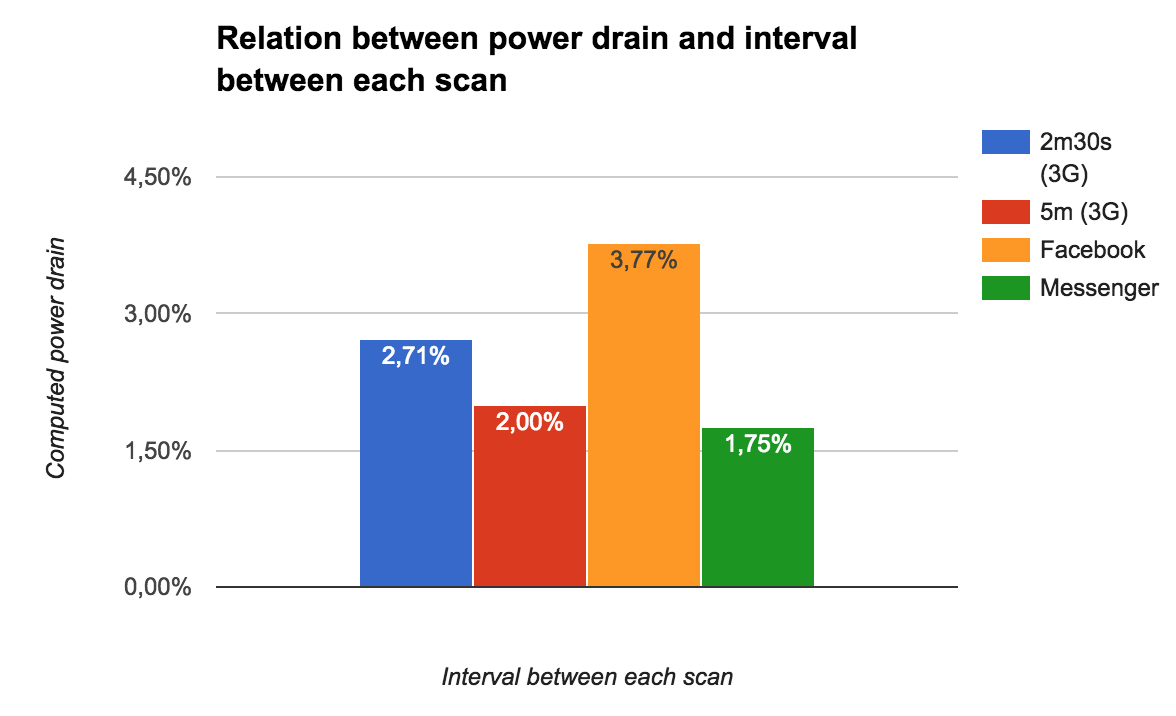
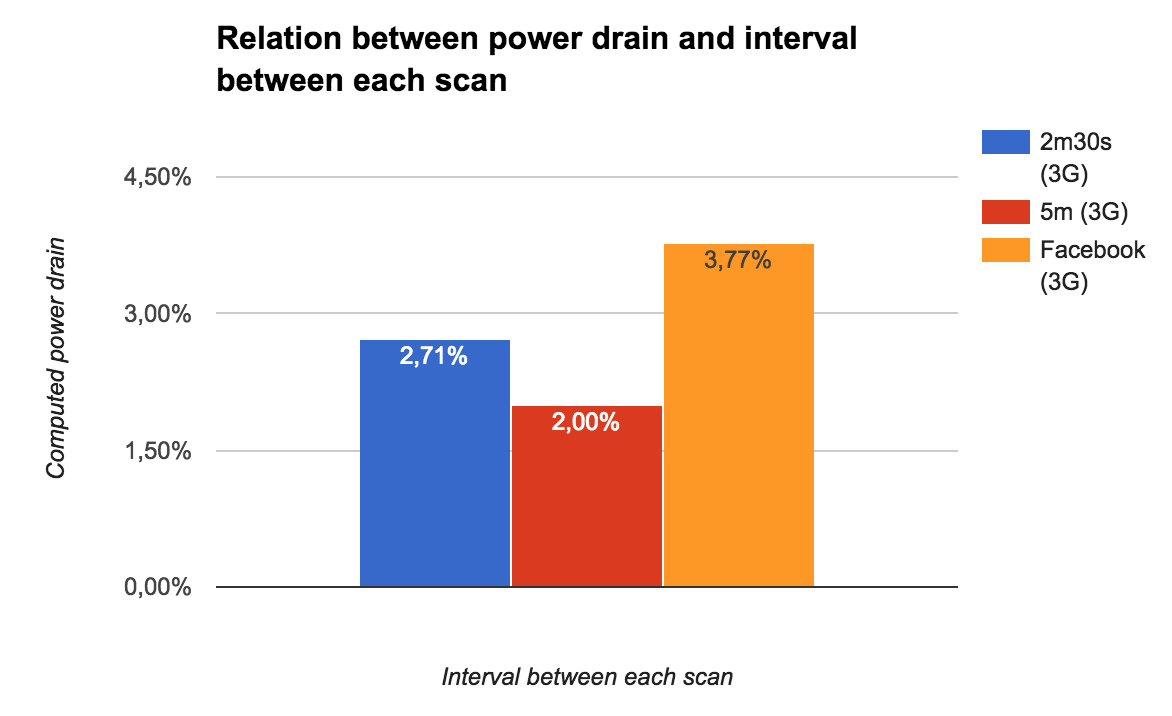
Improved Evaluation. Closes #177

diff --git a/dissertation/chapters/evaluation.tex b/dissertation/chapters/evaluation.tex
@@ -5,17 +5,9 @@
 % Introduce evaluation...
 % Main goals
 % Setup used
-
-After the implementation of this solution some experiments were performed in order to test it.
-When the mobile app for end users scans for beacons, it tries to find the nearest one that belongs to one or more Smart Places and notifify the user if at least one was found.
-If the user touches one of those notifications, the interface to the selected Smart Place is shown and the user can start to interact with it.
-Then, the app will keep on scanning for the nearest beacon and request the data, associated to that beacon in the context of the given Smart Place.
-This means that somehow, it has into account the physical distance between the device and the beacons.
-The library used to handle the beacons has a method to get the distance from a given beacon.
-There is a need to check if the distance's value we get from this library is reliable.
-The same app needs to run in background in order to let the user be notified when he/she is nearby any Smart Place, instead of requiring his/her interaction.
-However, as any service running in background, it can have a negative impact on the mobile device's resources usage such as battery.
-A set of experiments was performed to evaluate the overhead introduced by our solution and if it is acceptable, having an app, running in background, scanning for beacons.
+The evaluation focused on two aspects.
+First, we need to verify if the method to get the distance from a given beacon is reliable.
+Second, since we have a service running in background scanning for beacons from time to time we evaluated our solution in terms of battery consumption.
 
 In section \ref{sec:evaluation_setup}, we describe the setup used, such as the mobile device and the set of beacons.
 Then, we present two sets of experiments.
@@ -53,6 +45,7 @@ The set of experiments, summarized in Table~\ref{tab:experiments_nearest_beacon}
 In these experiments, the Smart Musem example was used.
 In each experiment it ran for 5 minutes using 10 seconds as the interval between each scan.
 10 seconds was chosen because it is a reasonable value to walk in the museum to have enough time to perform any computation that was needed after each scan.
+
 In each scan, the app executes code that checks if the scanned beacons were already detected in a previous scan. If they were not, the data associated to those beacons is requested from the backend which, depending on the internet connection, can take some time.
 This time interval between each scan seemed reasonable to make the request and compute the result until a new scan occurs.
 With a much lower value, we could have a situation where another scan occurs while the previous one was not computed yet.
@@ -98,8 +91,12 @@ For instance, in the previously described Smart Restaurant example
 the tables should not be close to each other. This is not always possible because some restaurants try to optimize space and have tables as much close to each other as possible.
 In the Smart Museum example two objects in a given exhibition should not be close to each other.
 Otherwise, the visitor would be notified about an object and he might be looking at another one.
-This error can be avoided using solutions such as Estimote Indoor \gls{SDK}\footnote{http://github.com/Estimote/iOS-Indoor-SDK} that can be used to obtain the physical indoors positon of the user.
-However, it is only available for iOS.
+This error can be avoided using solutions such as Estimote Indoor \gls{SDK}\footnote{http://github.com/Estimote/iOS-Indoor-SDK} that can be used to obtain the physical location of the user inside a building or a room.
+% How it works
+However, using it requires the user to place beacons around the room.
+Then, he needs to walk through the room in order for the app that is using the \gls{SDK} to get the needed data to do the mapping.
+Only after this mapping it is possible to get the user's location.
+It is only available for iOS.
 
 \section{Energy Consumption}
 \label{sec:evaluation_energy_consumption}
@@ -152,16 +149,17 @@ Data communications, \gls{WiFi} or \gls{3G}, are the major source of battery dra
 To test both scenarios we would need more than three beacons spread along a big space.
 Instead, we simulated the user walking passing by multiple Smart Places just by cleaning the cache, at each scan process.
 This forced the app to make requests to the backend each time the three beacons were detected, allowing us to understand the impact of these requests on the power drain.
-We used Battery Historian\footnote{https://developer.android.com/tools/performance/batterystats-battery-historian/index.html} to measure the power drain and how much data was transferred (sent and received). This tool allows developers to get the percentage of power drain of any application.
+We used Battery Historian\footnote{https://developer.android.com/tools/performance/batterystats-battery-historian/index.html} to measure the power drain and how much data was transferred (sent and received). This tool allowed us to get the percentage of power drain.
 
 \subsection{Results}
 \label{sub:evaluation_energy_consumption_results}
-As any service running in background it can imply some overhead in terms of energy.
-Following the methodology, explained before, we evaluated the battery consumption.
-For the first scenario, when the user stays in the same Smart Place, during each experiment, the results are summarized in Table~\ref{tab:results_battery_stopped} where we can see, for each variation of data connection type (\gls{WiFi} and \gls{3G}) and interval between each scan, the values obtained for power drain and data transferred.
-From this table it was possible to create the graphic shown in Figure~\ref{fig:results_battery_stopped}.
-The battery consumption using \gls{WiFi} is almost zero.
-However, when using \gls{3G}, the battery consumption raises more than 30 times than using \gls{WiFi}.
+% Tested first scenario
+After we tested the first scenario, when the user stays in the same Smart Place we got the results shown in Table~\ref{tab:results_battery_stopped}, where we can see, for each variation of data connection type (\gls{WiFi} and \gls{3G}) and interval between each scan, the values obtained for power drain and data transferred.
+From these results we obtained the graphic in Figure~\ref{fig:results_battery_stopped}.
+% Concluded that the power drain is greater when using 3G
+It is possible to see that using \gls{WiFi} we got no power drain.
+However, using \gls{3G} it drained 0.29\% and 0,40\% of the total battery available.
+After these first results we concluded that the biggest overhead comes from using \gls{3G} connection.
 
 \includeTable{results_battery_stopped}
 
@@ -172,33 +170,29 @@ However, when using \gls{3G}, the battery consumption raises more than 30 times 
     \label{fig:results_battery_stopped}
 \end{figure}
 
-From this results, it is possible to conclude that, our solution introduces the most overhead when using \gls{3G} as the mean to perform data communications such as, requests to the backend.
-For each data connection type (\gls{WiFi} and \gls{3G}), we tested two values for the interval between each scan for nearby beacons.
-We can observe that, when we decrease the interval between each scan in half, the battery consumption increases in 0.1\%.
-Taking into account that we spent one hour in each experiment and assuming that the values for the power drain grow lineary, it is possible to say that, for two and half and five minutes in interval between each scan, we would have 6.96\% and 9.6\%, in 24 hours, of power drain, respectively.
-The values are still low but they can demotivate the usage of our solution because, it is very likely that the users already have mobile apps, that use mobile data, already installed in their devices.
-
-Since the power drain is higher when using \gls{3G}, we tested two of the most popular apps using this data connection type, Facebook\footnote{http://play.google.com/store/apps/details?id=com.facebook.katana} and Facebook Messenger\footnote{http://play.google.com/store/apps/details?id=com.facebook.orca} that also have services running in background and need to perform requests using an Internet connection.
-Table~\ref{tab:results_facebook} summarizes these tests.
-Each test ran in 1 hour.
+% Tested Facebook using 3G
+After the first set of experiments we tested Facebook\footnote{http://play.google.com/store/apps/details?id=com.facebook.katana} since it is one of the popular apps and also has services running in background.
+It is also known to be one of most power draining apps\footnote{http://www.forbes.com/sites/jaymcgregor/2014/11/06/facebook-and-instagram-are-killing-your-phones-battery-heres-a-simple-fix}.
+We let it ran for 1 hour as we did in our first experiments.
 While running Facebook, we used it to check our news feed in 5 minutes. The rest of the time the app was running in background.
-With Facebook Messenger, we received three messages during the experiment.
-It is possible to say that most of the power drain was due to background activities.
+Table~\ref{tab:results_facebook} summarizes the conditions and results of the test performed using Facebook app.
 We will use these values as a reference to compare with the power drain in the second scenario, that is, at each scan the user moves from one place to another which implies more requests to the backend.
 
 \includeTable{results_facebook}
 
-Regarding the second scenario, where the user moves from one Smart Place to another, at each two and half minutes.
+% Tested second scenario
+Then, we performed the second set of experiments, that is, the second scenario where the user moves from one Smart Place to another.
+Here, the app requests more data from the backend.
 Table~\ref{tab:results_battery_walking}, shows the results for this scenario. Here, we got more power drain than in the previous scenario.
 These results shows that, the more communication with the backend is required, more power our solution drains.
 Once more, using \gls{WiFi}, we have got almost zero power drain.
 However, similar to the results in the previous scenario, there is more power drain using \gls{3G}.
 Graphic shown in Figure~\ref{fig:results_battery_walking} shows that, using two minutes and half of interval between each scan, we got more 0.71\% than using five minutes.
 As happened before, there is more power drain when we increase the interval between each scan.
-% Relate with Facebook and Messenger apps
-In the worst case we obtained a power drain of 2.71\% which is approximately 71\% less than using Facebook in the same period of time and more than 65\% of using Facebook Messenger.
-Using these two apps as a reference in terms of apps that run services in background, we can say that the battery consumption is acceptable for a daily basis usage.
-However, this is an aspect that needs to be improved.
+
+% Compare with Facebook
+In the worst case we obtained a power drain of 2.71\% which is approximately 71\% less than using Facebook in the same period of time.
+Using this app as a reference in terms of apps that run services in background, we can say that the battery consumption is acceptable for a daily basis usage.
 
 \includeTable{results_battery_walking}
 
@@ -208,6 +202,9 @@ However, this is an aspect that needs to be improved.
     \caption[Power drain when the user is moving]{Relation between power drain and interval between each scan in the scenario where the user moves along multiple Smart Places}
     \label{fig:results_battery_walking}
 \end{figure}
+
+% Dirty Hack to only start next section after showing the figures
+\vfill
 
 \section{Summary}
 \label{sec:evaluation_summary}
@@ -220,10 +217,7 @@ We have used a \tm{Motorola} Moto G smartphone and three beacons from \tm{Estimo
 % Nearest beacon
 % -> What and why
 % -> Comment results
-The mobile app for end users scans for nearby beacons and requests information, to the backend, about the one that is less distant to the mobile device.
-Somehow, the app needs to be able to get the distance from a given beacon.
-Our mobile apps project used a library to handle the \gls{BLE} beacons. This library has a method to get the distance, from a given beacon, that was previously scanned.
-However, we performed experiments in order to see if it is possible to trust this value.
+The mobile app for end users scans for nearby beacons and requests information from the backend.
 Our experiments showed that, to build applications that rely on detecting the nearest beacon, the beacons need to be, at least, 1.5m distant from each other.
 As we raise the distance between beacons, the nearest beacon is successfully detected.
 
@@ -233,14 +227,13 @@ As we raise the distance between beacons, the nearest beacon is successfully det
 The mobile app for end users scans for nearby beacons in background.
 As any service running in background, it can introduce an overhead in terms of energy consumption.
 We performed a set of experiments to get the power drain and data transferred (sent and received) by the mobile app.
-To get the power drain and data transferred values we used Battery Historian tool.
 We have tested two different scenarios. A scenario where the user stays in the same Smart Place and another one where he is always moving from one Smart Place to another.
-Each experiment runned for one hour.
+Each experiment runned for one hour with a scanning period of 5 minutes or 2 and 30 seconds.
 For each scenario, we tested \gls{WiFi} and \gls{3G} as data connection means.
 The results showed that the power drain is bigger when using \gls{3G}. When using \gls{WiFi}, the power drain is almost zero.
 In the scenario where the user does not move, the power drain is less than 1\%.
 However, in the scenario where the user is always moving, which implies more requests to the backend, because new Smart Places are detected in each new scan, the power drain can be more than 2\%.
 % Compare with Facebook and Facebook Messenger
-We have measured the power drain of two popular apps, Facebook and Facebook Messenger, because these apps also have services running in background.
-The power drain of these apps was used as a reference in order to compare with our solution in the worst case, when it needs to make requests to the backend in each scan.
-Comparing the worst power drain in our solution with the two mentioned apps, we can say that the battery consumption of our solution is acceptable but needs to be improved.
+We have measured the power drain of Facebook app, because it is one of the popular apps and also have services running in background.
+The power drain of this app was used as a reference in order to compare with our solution in the worst case, when it needs to make requests to the backend in each scan.
+Comparing the worst power drain in our solution with the Facebook app, we can say that the battery consumption of our solution is acceptable but needs to be improved.

diff --git a/dissertation/tables/results_facebook.tex b/dissertation/tables/results_facebook.tex
@@ -2,14 +2,14 @@
 % \usepackage{booktabs}
 \begin{table}[]
 \centering
-\begin{tabular}{@{}lcr@{}}
+\begin{tabular}{@{}lc@{}}
 \toprule
-\multicolumn{1}{c}{\textbf{Variables}}                                                      & \textbf{Facebook}           & \multicolumn{1}{c}{\textbf{\begin{tabular}[c]{@{}c@{}}Facebook \\ Messenger\end{tabular}}} \\ \midrule
-\textbf{Data connection type}                                                               & \multicolumn{2}{c}{3G}                                                                                                   \\
-\textbf{Experiment duration}                                                                & \multicolumn{2}{c}{1h}                                                                                                   \\
-\textbf{Computed power drain (\%)}                                                          & \multicolumn{1}{r}{3.77}    & 1.75                                                                                       \\
-\textbf{\begin{tabular}[c]{@{}l@{}}Data transferred \\ (KB sent and received)\end{tabular}} & \multicolumn{1}{r}{4627.83} & 130.54                                                                                     \\ \bottomrule
+\multicolumn{1}{c}{\textbf{Variables}}                                                      & \textbf{Values} \\ \midrule
+\textbf{Data connection type}                                                               & 3G              \\
+\textbf{Experiment duration}                                                                & 1h              \\
+\textbf{Computed power drain (\%)}                                                          & 3.77            \\
+\textbf{\begin{tabular}[c]{@{}l@{}}Data transferred \\ (KB sent and received)\end{tabular}} & 4627.83         \\ \bottomrule
 \end{tabular}
-\caption[Battery consumption of Facebook and Facebook Messenger apps]{Battery consumption of Facebook and Facebook Messenger apps}
+\caption[Battery consumption of Facebook app]{Battery consumption of Facebook app}
 \label{tab:results_facebook}
 \end{table}
